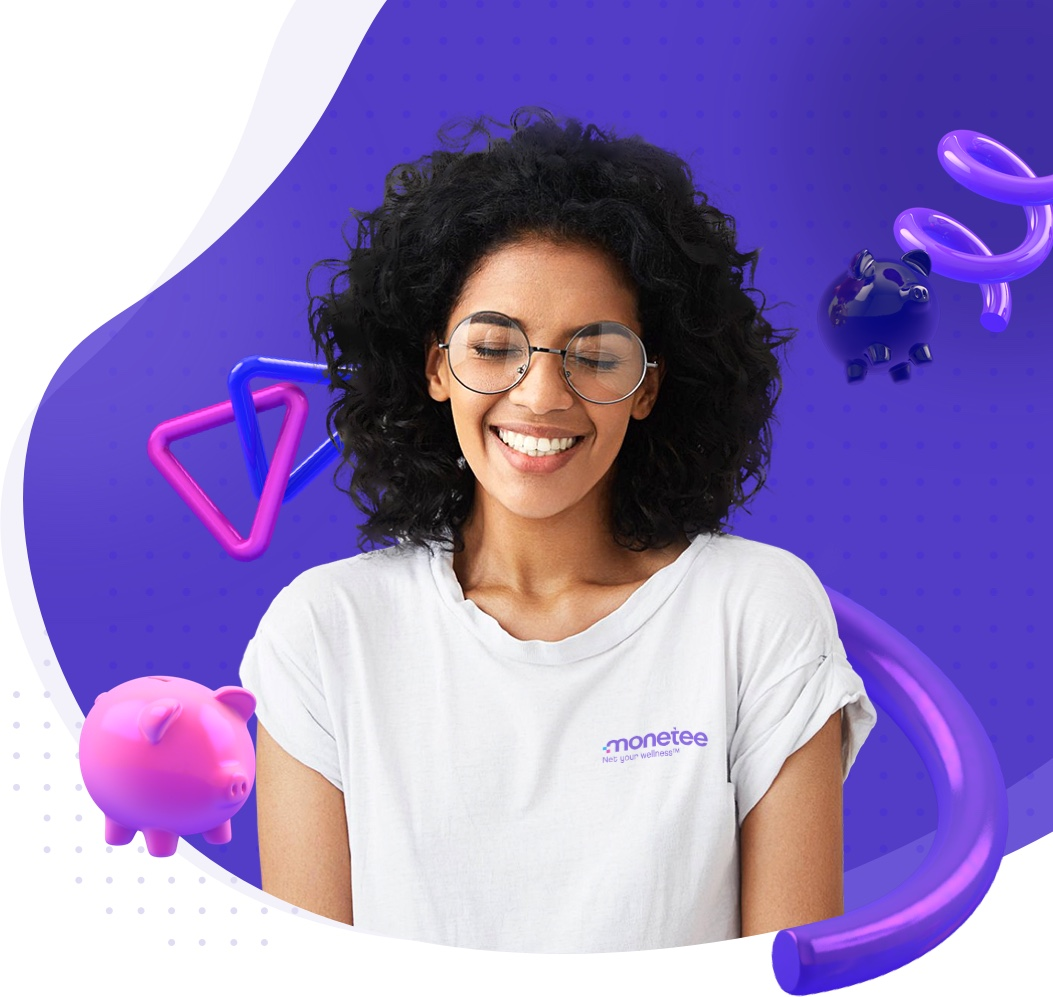
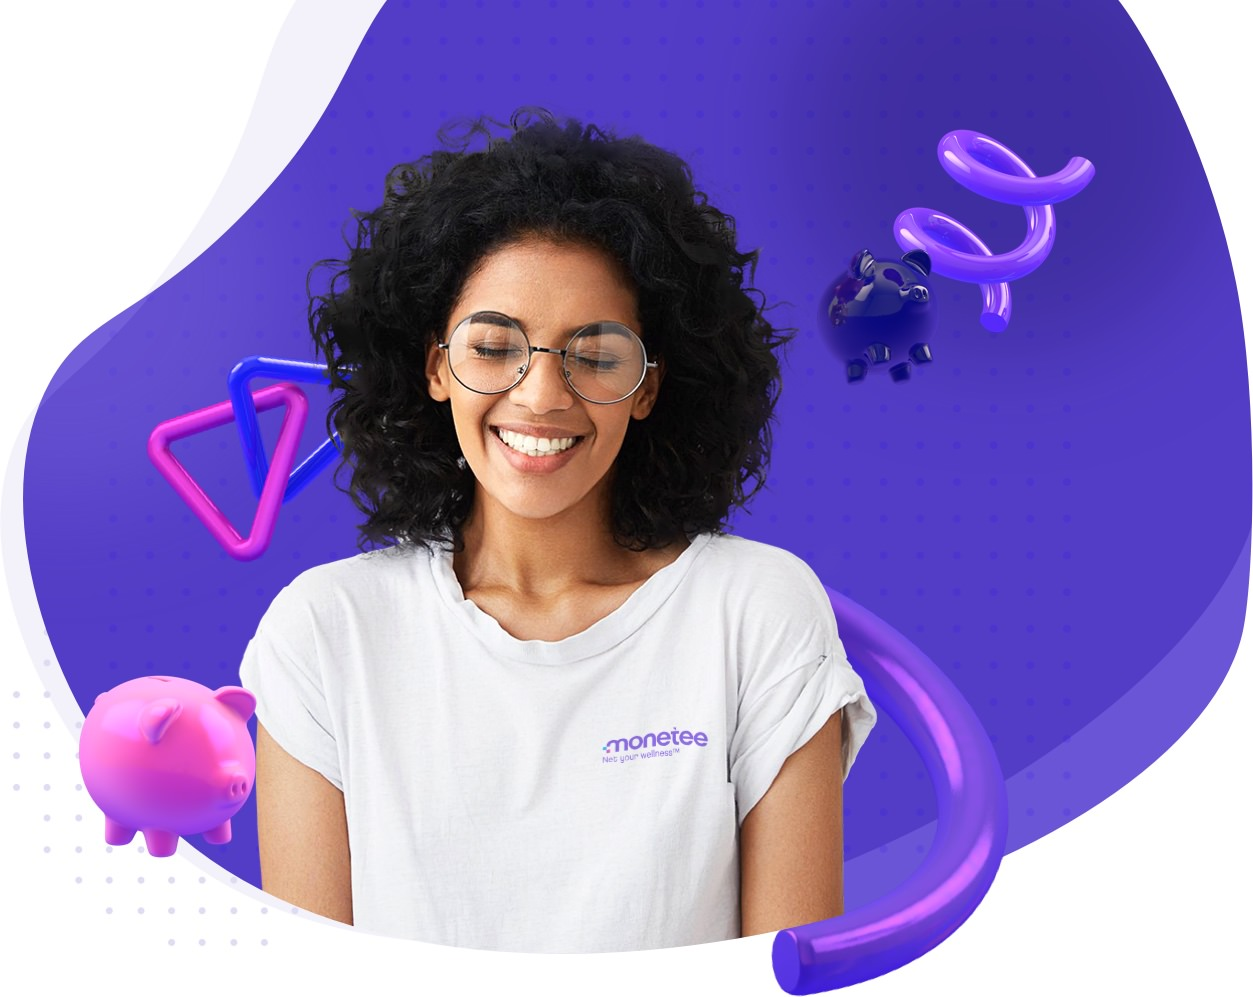
update hero section, add netlify form

diff --git a/src/components/Home/WellnessStarted/WellnessForm.js b/src/components/Home/WellnessStarted/WellnessForm.js
@@ -1,5 +1,6 @@
 import React, { Component } from "react"
 import "./_wellnessForm.scss"
+import axios from "axios"
 
 import { Formik, Form, Field } from "formik"
 import * as Yup from "yup"
@@ -23,6 +24,15 @@ class WellnessForm extends Component {
       buttonClasses.push("is-loading")
     }
 
+    // encode form data
+    const encode = data => {
+      return Object.keys(data)
+        .map(
+          key => encodeURIComponent(key) + "=" + encodeURIComponent(data[key])
+        )
+        .join("&")
+    }
+
     return (
       <Formik
         initialValues={{
@@ -31,26 +41,50 @@ class WellnessForm extends Component {
         validationSchema={WellnessFormSchema}
         onSubmit={values => {
           this.setState({ formIsSending: true })
-          // same shape as initial values
-          // console.log(values)
+          axios
+            .post(
+              "/",
+              encode({ "form-name": "New user email", ...values }),
+              {
+                headers: {
+                  "Content-Type": "application/x-www-form-urlencoded",
+                },
+              }
+            )
+            .then(response => {
+              console.log(response)
+            })
+            .catch(err => {
+              console.log(err);
+            })
+            .finally(() => {
+              this.setState({ formIsSending: false })
+            })
         }}
       >
         {({ errors, touched }) => (
           <Form className="form wellness-form" autoComplete={"off"} noValidate>
             <fieldset className="form__fieldset">
               <legend className="hidden">Wellness Form</legend>
+              <input type="hidden" name="form-name" value="contact" />
               <div className="form__box wellness-form__box">
                 <div className="form__field-control">
                   <Field
                     name="email"
                     type="email"
-                    className={`ui-input  size--normal ${this.props.themeBorder?'theme--border':'theme--default'} ${errors.email && touched.email? 'state--error':''}`}
+                    className={`ui-input  size--normal ${
+                      this.props.themeBorder
+                        ? "theme--border"
+                        : "theme--default"
+                    } ${errors.email && touched.email ? "state--error" : ""}`}
                     placeholder="Your email address"
                   />
                   <div className="form__field-messages">
                     {errors.email && touched.email ? (
-                      <div className="form__field-messages-item">{errors.email}</div>
-                      ) : null}
+                      <div className="form__field-messages-item">
+                        {errors.email}
+                      </div>
+                    ) : null}
                   </div>
                 </div>
                 <button

diff --git a/src/components/Home/Features/_features.scss b/src/components/Home/Features/_features.scss
@@ -135,6 +135,7 @@
       color: #fff;
       margin: 0 0 em(24, 26) -4px;
       position: relative;
+      letter-spacing: normal;
 
       span {
         display: inline;
@@ -143,12 +144,15 @@
         box-shadow: -4px 0 0 #00c4c7, 4px 0 0 #00c4c7;
         box-decoration-break: clone;
         color: transparent;
+        letter-spacing: normal;
 
         &:after {
+          padding: 0 4px;
           color: #fff;
           content: attr(data-descr);
           position: absolute;
-          left: .1em;
+          letter-spacing: normal;
+          left: 0;
           top: 0;
           z-index: 10;
           width: 100%;

diff --git a/src/components/Home/Members/Members.js b/src/components/Home/Members/Members.js
@@ -7,7 +7,7 @@ const Members = () => {
       <div className="container">
         <div className="members__box">
           <div className="members__box-info">
-            <h4>People are More Than Numbers</h4>
+            <h4 className="section-title">People are More Than Numbers</h4>
 
             <div className="members__box-note">
               Employees are a company's greatest asset - they're your competitive advantage. You want to attract and retain the best; provide them with encouragement, stimulus, and make them feel that they are an integral part of the company's mission.

diff --git a/src/components/Home/Vision/Vision.js b/src/components/Home/Vision/Vision.js
@@ -8,7 +8,7 @@ const Vision = () => {
 
         <div className="vision__row">
           <div className="vision__decision">
-            <h4>Our Vision statement</h4>
+            <h4 className="section-title">Our Vision statement</h4>
 
             <div className="vision__decision-note">
               A world where people have access to make sophisticated, informed,

diff --git a/src/components/Home/Hero/_hero.scss b/src/components/Home/Hero/_hero.scss
@@ -50,7 +50,7 @@
         }
         top: -100px;
         z-index: -1;
-        width: em(1053);
+        width: em(1253);
         height: em(997);
       }
     }

diff --git a/src/scss/_base.scss b/src/scss/_base.scss
@@ -66,7 +66,7 @@ a {
   }
 }
 
-h4 {
+.section-title {
   font-size: em(13px);
   font-weight: normal;
   line-height: 1;
